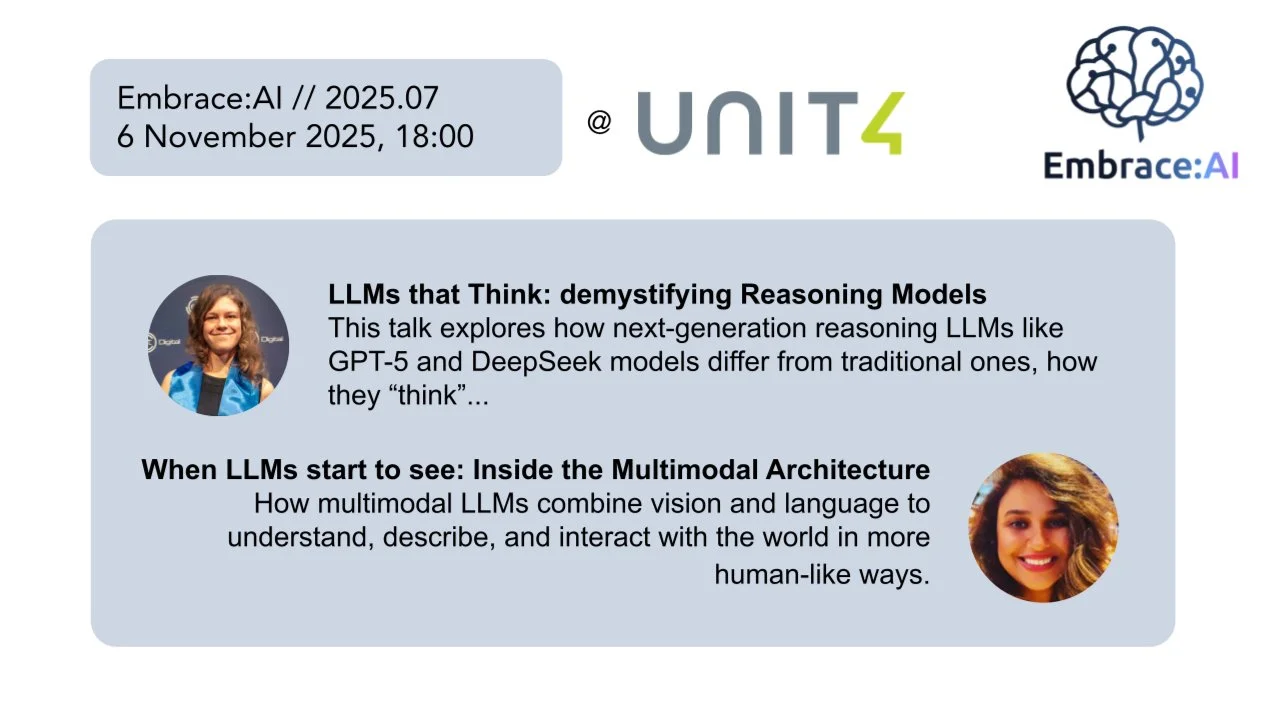
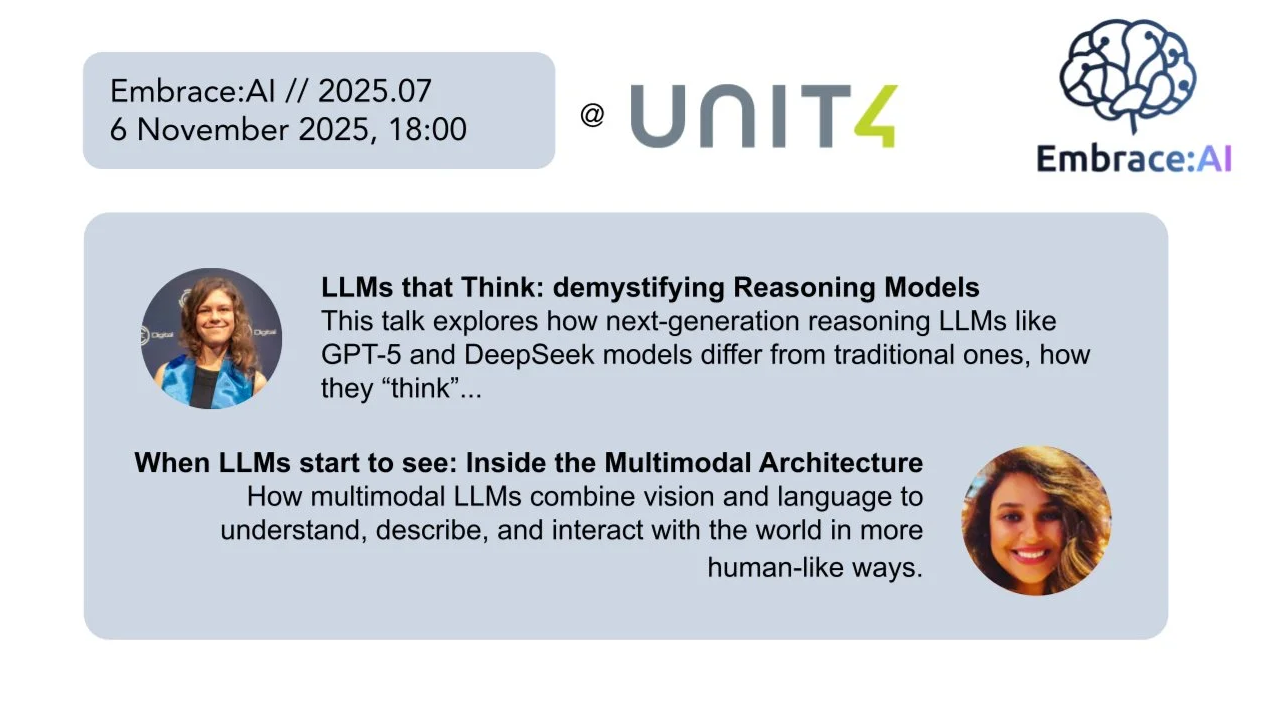
embraceai meetup

diff --git a/content/talks/2025-11-06-embrace-ai-meetup-reasoning-models.md b/content/talks/2025-11-06-embrace-ai-meetup-reasoning-models.md
@@ -1,7 +1,14 @@
 ---
-title: "[UPCOMING] Embrace:AI // 2025.06 - Reasoning LLMs & Multimodal Architecture"
+title: "Embrace:AI // 2025.06 - Reasoning LLMs & Multimodal Architecture"
 date: 2025-11-06
 author: "ZanSara"
 featuredImage: "/talks/2025-11-06-embrace-ai-meetup-reasoning-models.png"
-externalLink: "https://www.meetup.com/embrace-ai/events/311629934/"
 ---
+
+[Announcement](https://www.meetup.com/embrace-ai/events/311629934/), [slides](https://drive.google.com/file/d/1QoUVlA915-7UJqu9DkxKQUc3deJhsB8t/view?usp=sharing).
+All resources can also be found in 
+[my archive](https://docs.google.com/presentation/d/1RzJOwSwaLcNFkkPuvpR9e9pRzf0mnz23l8H29X9UDSA/edit?usp=drive_link).
+
+---
+
+At [Embrace.ai's November Meetup](https://www.meetup.com/embrace-ai/), part of the [Lisbon AI Week](https://lisbonaiweek.com/) I talked about reasoning models: what they are, what they aren't, how they work and when to use them. Is GPT-5 AGI? Is it an AI Agent? Or is it just a glorified chain-of-thought prompt under the hood? To answer these questions, I classified LLMs into a small "taxonomy" based on the post-training steps they go through, in order to highlight how reasoning models differ qualitatively from their predecessors just like instruction-tuned models were not simple text-completion models with a better prompt. I also covered the effect of increasing the reasoning effort of the model, clarifying when it's useful and when it can lead to overthinking.
